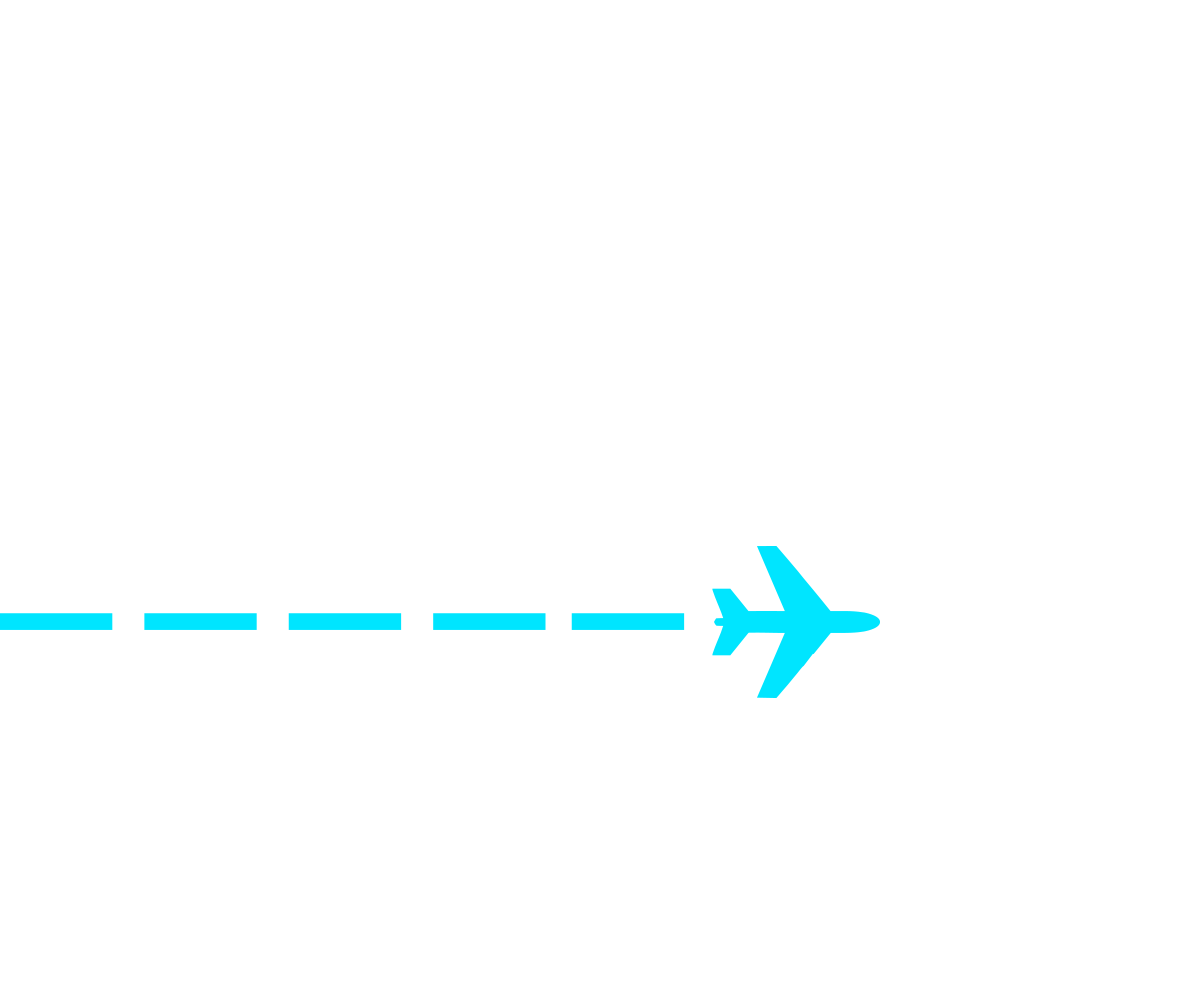
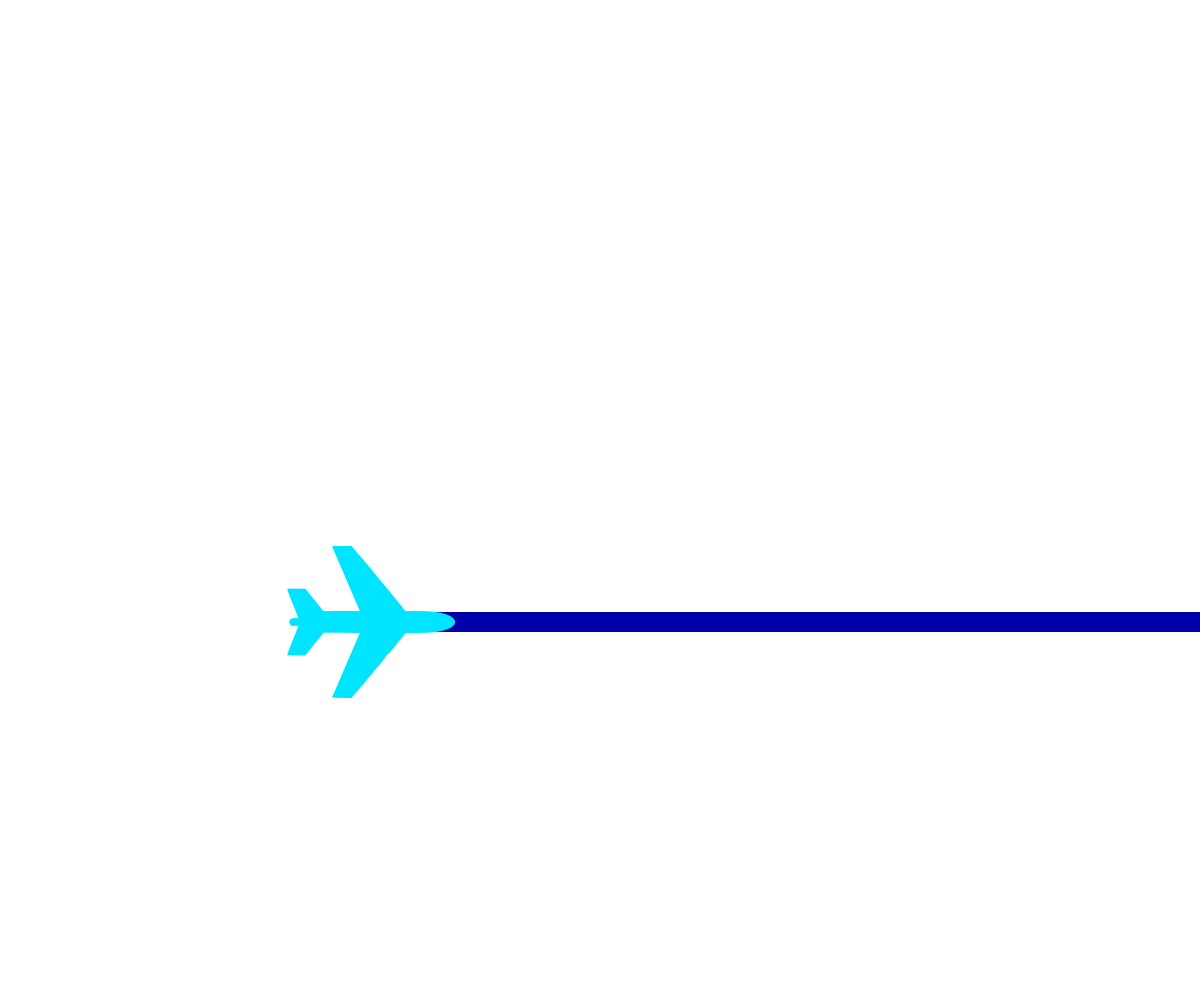
Client feedback implemented

Changed region(s): [[0.1233, 0.527, 1.0, 0.713], [0.0, 0.589, 0.0925, 0.651]]

diff --git a/Providence_to_Florida/dynamic/richLoads/JB_Providence_Florida_160x600_RL1/index.html b/Providence_to_Florida/dynamic/richLoads/JB_Providence_Florida_160x600_RL1/index.html
@@ -26,12 +26,15 @@
             <!--start main_content-->
             <div id="main_content" class="">
               <!-- <img src="images/f2.jpg" style="width: 160px; height: 600px; position: absolute; top: 0px; left: 0px; z-index: 11; opacity: .5;" alt=""> -->
+
+              <img src="images/plane-line.png" class="window" alt="">
+              <img src="images/plane.png" class="window" id="plane" alt="">
+
               <div id="text_holder">
                 <div id="h1" class="hidden">Take<br>the easy<br>Rhode to<br>Florida.</div>
                 <div id="h2" class="hidden">High on<br> comfort,<br>low on prices.<br> With the<br> most flights<br>from PVD<br> to Florida.</div>
               </div>
-              
-              <img src="images/plane.png" class="window" id="plane" alt="">
+
               <div class="terms">&copy;<span id="year"></span> JetBlue Airways  </div>
               
               <div id="endframeBg">

diff --git a/BOS_to_Florida/dynamic/richLoads/JB_BOS_Florida_300x600_RL1/index.html b/BOS_to_Florida/dynamic/richLoads/JB_BOS_Florida_300x600_RL1/index.html
@@ -26,11 +26,12 @@
       <div id="main_content" class="">
         <!--start main_content-->
         <!-- <img src="images/f2.jpg" style="width: 300px; height: 600px; position: absolute; top: 0px; left: 0px; z-index: 11; opacity: .5;" alt=""> -->
+        <img src="images/bottom.png" class="window" alt="">
         <div id="text_holder">
-          <div id="h1" class="hidden">More ways<br>to that<br>Sunshine<br>State of<br>mind.</div>
+          <div id="h1" class="hidden">More<br>ways to that<br>Sunshine<br>State of<br>mind.</div>
           <div id="h2" class="hidden">The most<br>flights from<br>Boston to Florida,<br>at wallet-friendly<br>prices.</div>
         </div>
-        <img src="images/bg.png" class="window" alt="">
+        <img src="images/top.png" class="window" alt="">
 
         <div class="terms">&copy;<span id="year"></span> JetBlue Airways</div>
 

diff --git a/Providence_to_Florida/Non-dynamic/richLoads/JB_Providence_Florida_160x600_RL/index.html b/Providence_to_Florida/Non-dynamic/richLoads/JB_Providence_Florida_160x600_RL/index.html
@@ -23,12 +23,15 @@
       <!--start main_content-->
       <div id="main_content" class="">
         <!-- <img src="images/f2.jpg" style="width: 160px; height: 600px; position: absolute; top: 0px; left: 0px; z-index: 11; opacity: .5;" alt=""> -->
+
+        <img src="images/plane-line.png" class="window" alt="">
+        <img src="images/plane.png" class="window" id="plane" alt="">
+
         <div id="text_holder">
           <div id="h1" class="hidden">Take<br>the easy<br>Rhode to<br>Florida.</div>
           <div id="h2" class="hidden">High on<br> comfort,<br>low on prices.<br> With the<br> most flights<br>from PVD<br> to Florida.</div>
         </div>
         
-        <img src="images/plane.png" class="window" id="plane" alt="">
         <div class="terms">&copy;<span id="year"></span> JetBlue Airways  </div>
         
         <div id="pinkRibbon"></div>

diff --git a/Providence_to_Florida/Non-dynamic/richLoads/JB_Providence_Florida_300x600_RL/index.html b/Providence_to_Florida/Non-dynamic/richLoads/JB_Providence_Florida_300x600_RL/index.html
@@ -23,12 +23,15 @@
       <!--start main_content-->
       <div id="main_content" class="">
         <!-- <img src="images/f2.jpg" style="width: 300px; height: 600px; position: absolute; top: 0px; left: 0px; z-index: 11; opacity: .5;" alt=""> -->
+
+        <img src="images/plane-line.png" class="window" alt="">
+        <img src="images/plane.png" class="window" id="plane" alt="">
+        
         <div id="text_holder">
           <div id="h1" class="hidden">Take the<br>easy Rhode<br>to Florida.</div>
           <div id="h2" class="hidden">High on comfort,<br>low on prices. With<br>the most flights from<br>PVD to Florida.</div>
         </div>
         
-        <img src="images/plane.png" class="window" id="plane" alt="">
         <div class="terms">&copy;<span id="year"></span> JetBlue Airways  </div>
         
         <div id="pinkRibbon"></div>

diff --git a/Providence_to_Florida/Non-dynamic/richLoads/JB_Providence_Florida_728x90_RL/index.html b/Providence_to_Florida/Non-dynamic/richLoads/JB_Providence_Florida_728x90_RL/index.html
@@ -23,12 +23,14 @@
       <!--start main_content-->
       <div id="main_content" class="">
         <!-- <img src="images/f2.jpg" style="width: 728px; height: 90px; position: absolute; top: 0px; left: 0px; z-index: 11; opacity: .5;" alt=""> -->
+        <img src="images/plane-line.png" class="window" alt="">
+        <img src="images/plane.png" class="window" id="plane" alt="">
+        
         <div id="text_holder">
           <div id="h1" class="hidden">Take the easy Rhode to Florida.</div>
           <div id="h2" class="hidden">High on  comfort, low on prices.<br/>  With the  most flights from PVD  to Florida.</div>
         </div>
-        
-        <img src="images/plane.png" class="window" id="plane" alt="">
+      
         <div class="terms">&copy;<span id="year"></span> JetBlue Airways  </div>
         
         <div id="pinkRibbon"></div>

diff --git a/Providence_to_Florida/dynamic/richLoads/JB_Providence_Florida_728x90_RL1/index.html b/Providence_to_Florida/dynamic/richLoads/JB_Providence_Florida_728x90_RL1/index.html
@@ -26,12 +26,14 @@
       <div id="main_content" class="">
         <!--start main_content-->
           <!-- <img src="images/f2.jpg" style="width: 728px; height: 90px; position: absolute; top: 0px; left: 0px; z-index: 11; opacity: .5;" alt=""> -->
+          <img src="images/plane-line.png" class="window" alt="">
+          <img src="images/plane.png" class="window" id="plane" alt="">
+
           <div id="text_holder">
             <div id="h1" class="hidden">Take the easy Rhode to Florida.</div>
             <div id="h2" class="hidden">High on  comfort, low on prices.<br/>  With the  most flights from PVD  to Florida.</div>
           </div>
 
-          <img src="images/plane.png" class="window" id="plane" alt="">
           <div class="terms">&copy;<span id="year"></span> JetBlue Airways  </div>
         
           <div id="endframeBg">

diff --git a/Providence_to_Florida/Non-dynamic/richLoads/JB_Providence_Florida_300x250_RL/index.html b/Providence_to_Florida/Non-dynamic/richLoads/JB_Providence_Florida_300x250_RL/index.html
@@ -23,12 +23,13 @@
       <!--start main_content-->
       <div id="main_content" class="">
         <!-- <img src="images/f2.jpg" style="width: 300px; height: 250px; position: absolute; top: 0px; left: 0px; z-index: 11; opacity: .5;" alt=""> -->
+        <img src="images/plane-line.png" class="window" alt="">
+        <img src="images/plane.png" class="window" id="plane" alt="">
         <div id="text_holder">
           <div id="h1" class="hidden">Take the<br>easy Rhode<br>to Florida.</div>
           <div id="h2" class="hidden">High on comfort,<br>low on prices. With<br>the most flights from<br>PVD to Florida.</div>
         </div>
         
-        <img src="images/plane.png" class="window" id="plane" alt="">
         <div class="terms">&copy;<span id="year"></span> JetBlue Airways</div>
         
         <div id="pinkRibbon"></div>

diff --git a/Providence_to_Florida/dynamic/richLoads/JB_Providence_Florida_300x250_RL1/index.html b/Providence_to_Florida/dynamic/richLoads/JB_Providence_Florida_300x250_RL1/index.html
@@ -25,12 +25,14 @@
       <!--start main_container-->
       <div id="main_content" class="">
        <!-- <img src="images/f1.jpg" style="width: 300px; height: 250px; position: absolute; top: 0px; left: 0px; z-index: 11; opacity: .5;" alt=""> -->
+       <img src="images/plane-line.png" class="window" alt="">
+       <img src="images/plane.png" class="window" id="plane" alt="">
+       
        <div id="text_holder">
         <div id="h1" class="hidden">Take the<br>easy Rhode<br>to Florida.</div>
         <div id="h2" class="hidden">High on comfort,<br>low on prices. With<br>the most flights from<br>PVD to Florida.</div>
       </div>
       
-      <img src="images/plane.png" class="window" id="plane" alt="">
       <div class="terms">&copy;<span id="year"></span> JetBlue Airways</div>
       
         <div id="endframeBg">

diff --git a/Providence_to_Florida/Non-dynamic/richLoads/JB_Providence_Florida_728x90_RL/mainRL1.js b/Providence_to_Florida/Non-dynamic/richLoads/JB_Providence_Florida_728x90_RL/mainRL1.js
@@ -25,17 +25,14 @@ function animate() {
   tl.set(["#main_content"], { autoAlpha: 1, force3D: true });
 
   tl.set(['#h1, #h2'], {y:"20px"})
-  // tl2.set('#plane',{x:'-107px'})
   tl.addLabel('frame1', 0)
   .to('#h1', 0.5, { autoAlpha: 1, y: "0", ease: Power1.easeOut}, 'frame1+=0.5')
   
   .addLabel('frame2', 'frame1+=4')
   .to('#h1', 0.5, { autoAlpha: 0, y: "20px", ease: Power1.easeOut }, "frame2")
   .to('#h2', 0.5, { autoAlpha: 1, y: "0", ease: Power1.easeOut }, "frame2+=0.5")
-  // Duration of entire timeline
   const totalDuration = tl.duration() + 2;
-  // Plane animation running for entire duration
-  tl.fromTo("#plane", totalDuration, { x: "-300px" }, { x: "0", ease: Power0.easeNone }, 0);
+  tl.fromTo("#plane", totalDuration, { x: "0" }, { x: "278", ease: Power1.easeOut }, 0);
 }
 
 function setRollover() {

diff --git a/Providence_to_Florida/dynamic/richLoads/JB_Providence_Florida_970x90_RL1/mainRL1.js b/Providence_to_Florida/dynamic/richLoads/JB_Providence_Florida_970x90_RL1/mainRL1.js
@@ -111,13 +111,13 @@ function animate() {
   tl.set(['#h1, #h2'], {y:"20px"})
 
   tl.addLabel('frame1', 0)
-  .to('#h1', 0.5, { autoAlpha: 1, y: "0", ease: Power1.easeOut}, 'frame1+=0.5')
+  .to('#h1', 0.5, { autoAlpha: 1, y: "0", ease: Power1.easeOut}, 'frame1+=0.2')
   
   .addLabel('frame2', 'frame1+=4')
   .to('#h1', 0.5, { autoAlpha: 0, y: "20px", ease: Power1.easeOut }, "frame2")
   .to('#h2', 0.5, { autoAlpha: 1, y: "0", ease: Power1.easeOut }, "frame2+=0.5")
   const totalDuration = tl.duration() + 2;
-  tl.fromTo("#plane", totalDuration, { x: "-300px" }, { x: "0", ease: Power0.easeNone }, 0);
+  tl.fromTo("#plane", totalDuration, { x: "0" }, { x: "278", ease: Power1.easeOut }, 0);
 
   tl.addLabel('frame_END', 'frame2+=6')    
   

diff --git a/Providence_to_Florida/dynamic/richLoads/JB_Providence_Florida_468x60_RL1/index.html b/Providence_to_Florida/dynamic/richLoads/JB_Providence_Florida_468x60_RL1/index.html
@@ -26,6 +26,10 @@
       <div id="main_content" class="">
         <!--start main_content-->
           <!-- <img src="images/f1.jpg" style="width: 468px; height: 60px; position: absolute; top: 0px; left: 0px; z-index: 11; opacity: .5;" alt=""> -->
+
+          <img src="images/plane-line.png" class="window" alt="">
+          <img src="images/plane.png" class="window" id="plane" alt="">
+          
           <div id="text_holder">
             <div id="h1" class="hidden">Take the easy Rhode to Florida.</div>
             <div id="h2" class="hidden">High on  comfort, low on prices.<br/>  With the  most flights from PVD  to Florida.</div>

diff --git a/Providence_to_Florida/dynamic/richLoads/JB_Providence_Florida_300x600_RL1/mainRL1.js b/Providence_to_Florida/dynamic/richLoads/JB_Providence_Florida_300x600_RL1/mainRL1.js
@@ -113,11 +113,8 @@ function animate() {
   .addLabel('frame2', 'frame1+=4')
   .to('#h1', 0.5, { autoAlpha: 0, y: "20px", ease: Power1.easeOut }, "frame2")
   .to('#h2', 0.5, { autoAlpha: 1, y: "0", ease: Power1.easeOut }, "frame2+=0.5")
-
-  // Duration of entire timeline
   const totalDuration = tl.duration() + 2;
-  // Plane animation running for entire duration
-  tl.fromTo("#plane", totalDuration, { x: "-107px" }, { x: "0", ease: Power0.easeNone }, 0)
+  tl.fromTo("#plane", totalDuration, { x: "-10px" }, { x: "100px", ease: Power1.easeOut }, 0)
 
   .addLabel('frame_END', "frame2+=6")
   .to("#term2", {autoAlpha: 0,}, 'frame_END')
